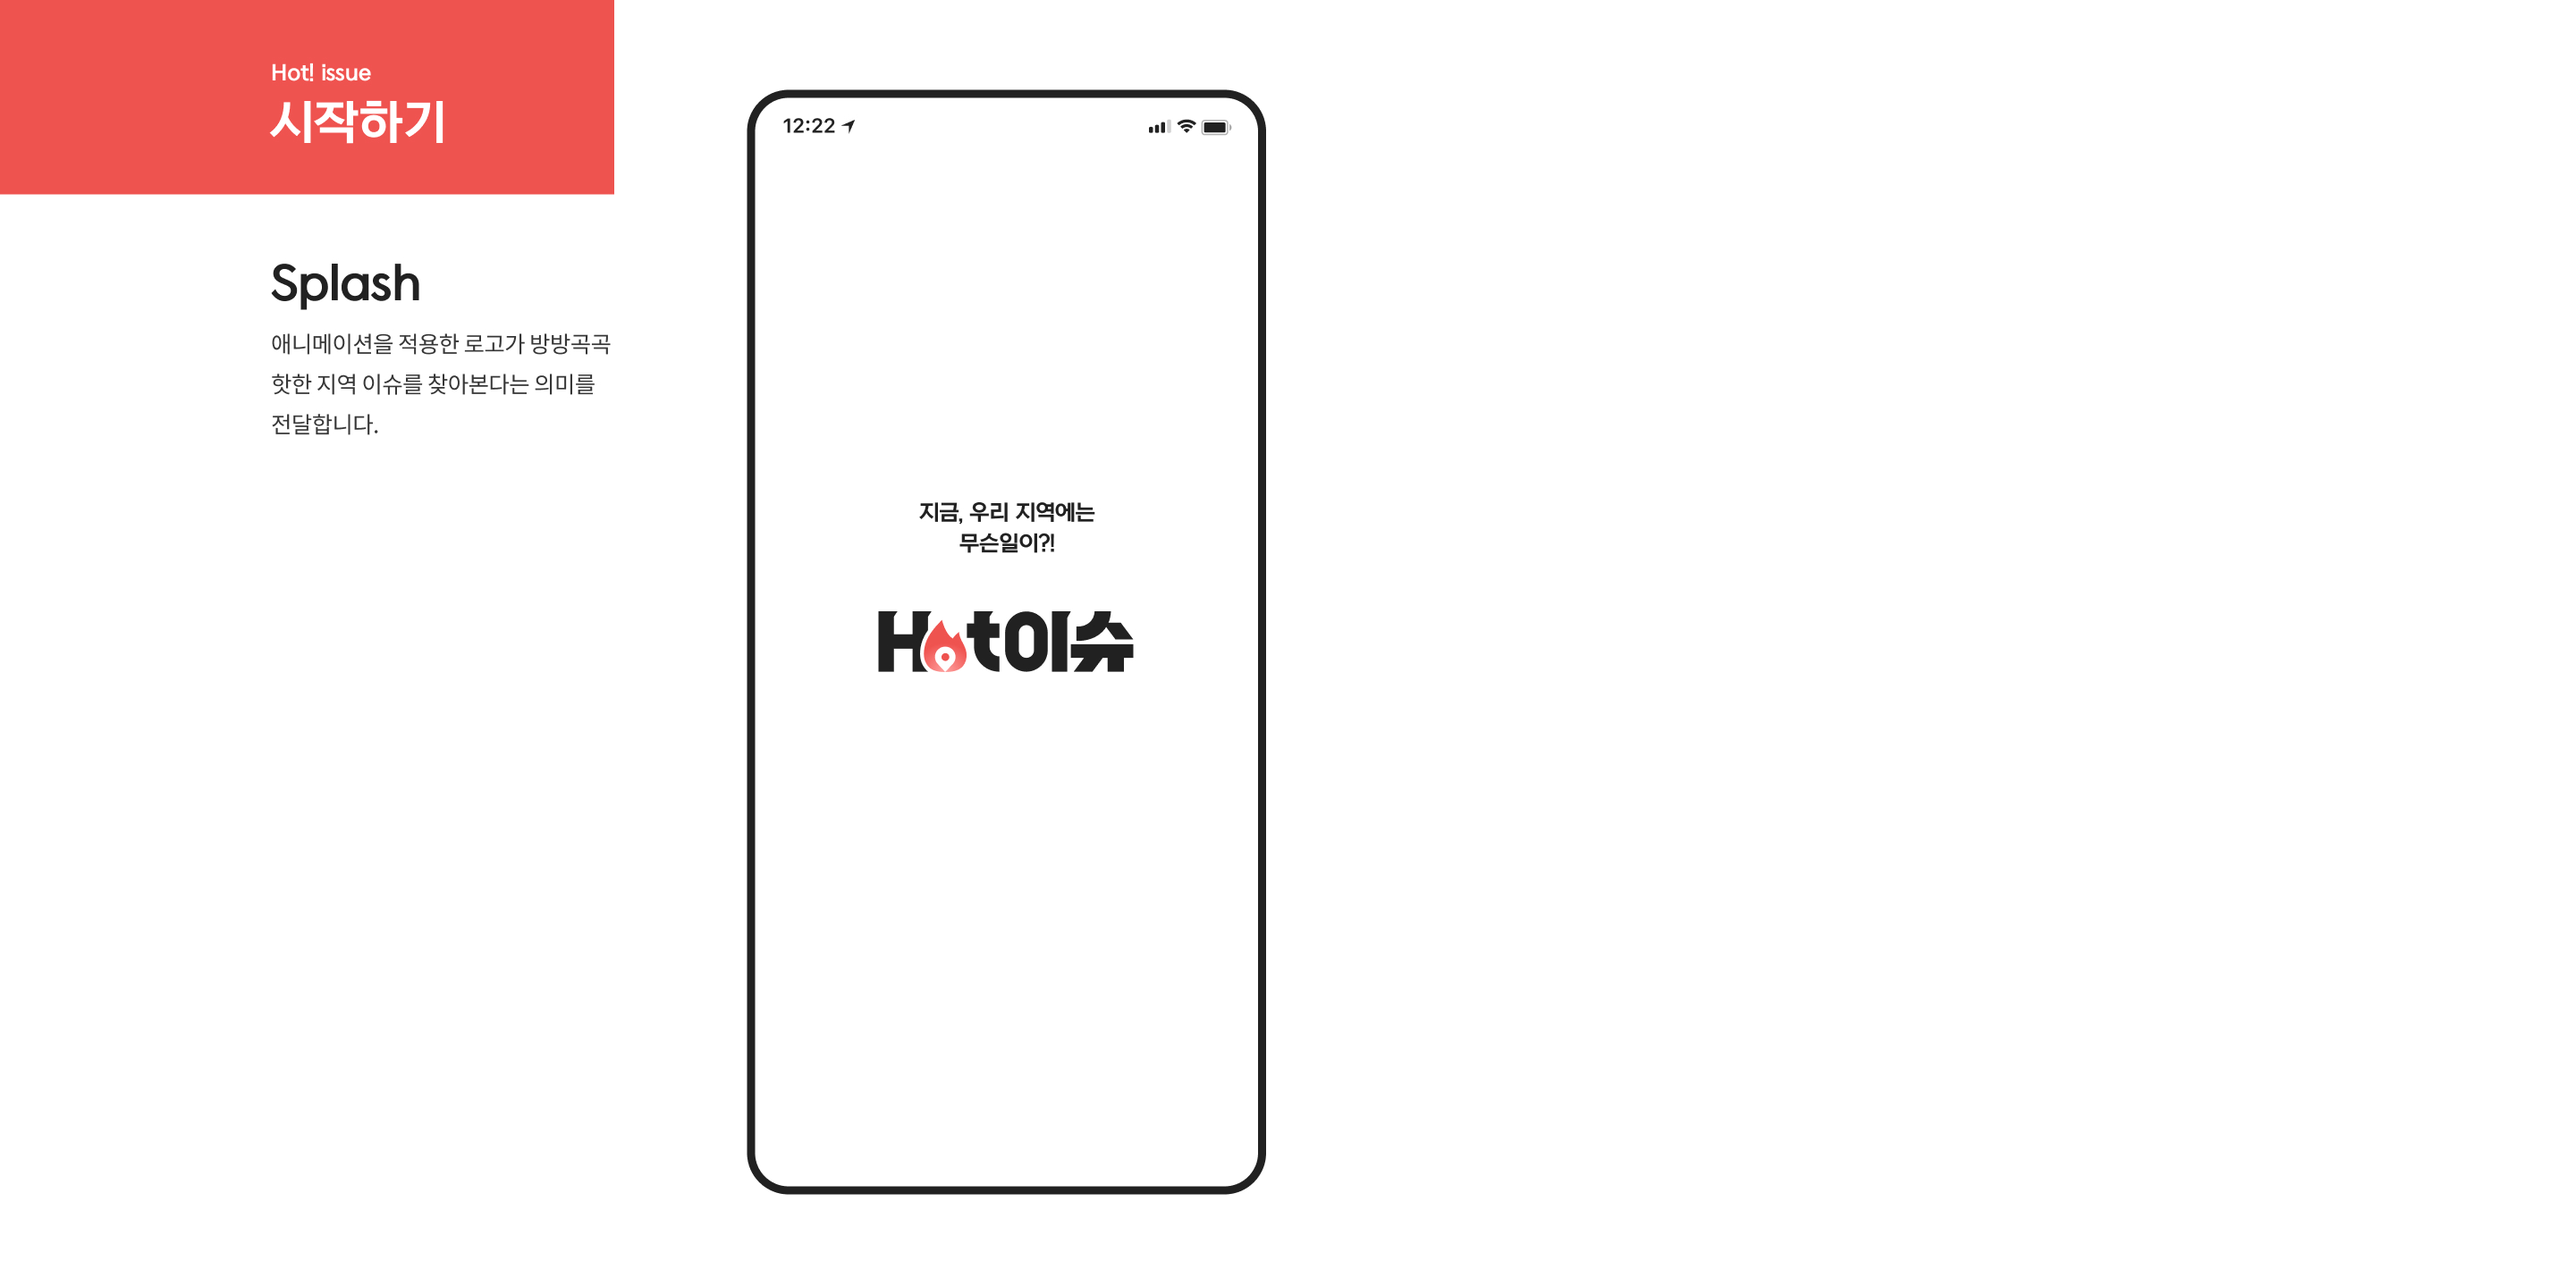
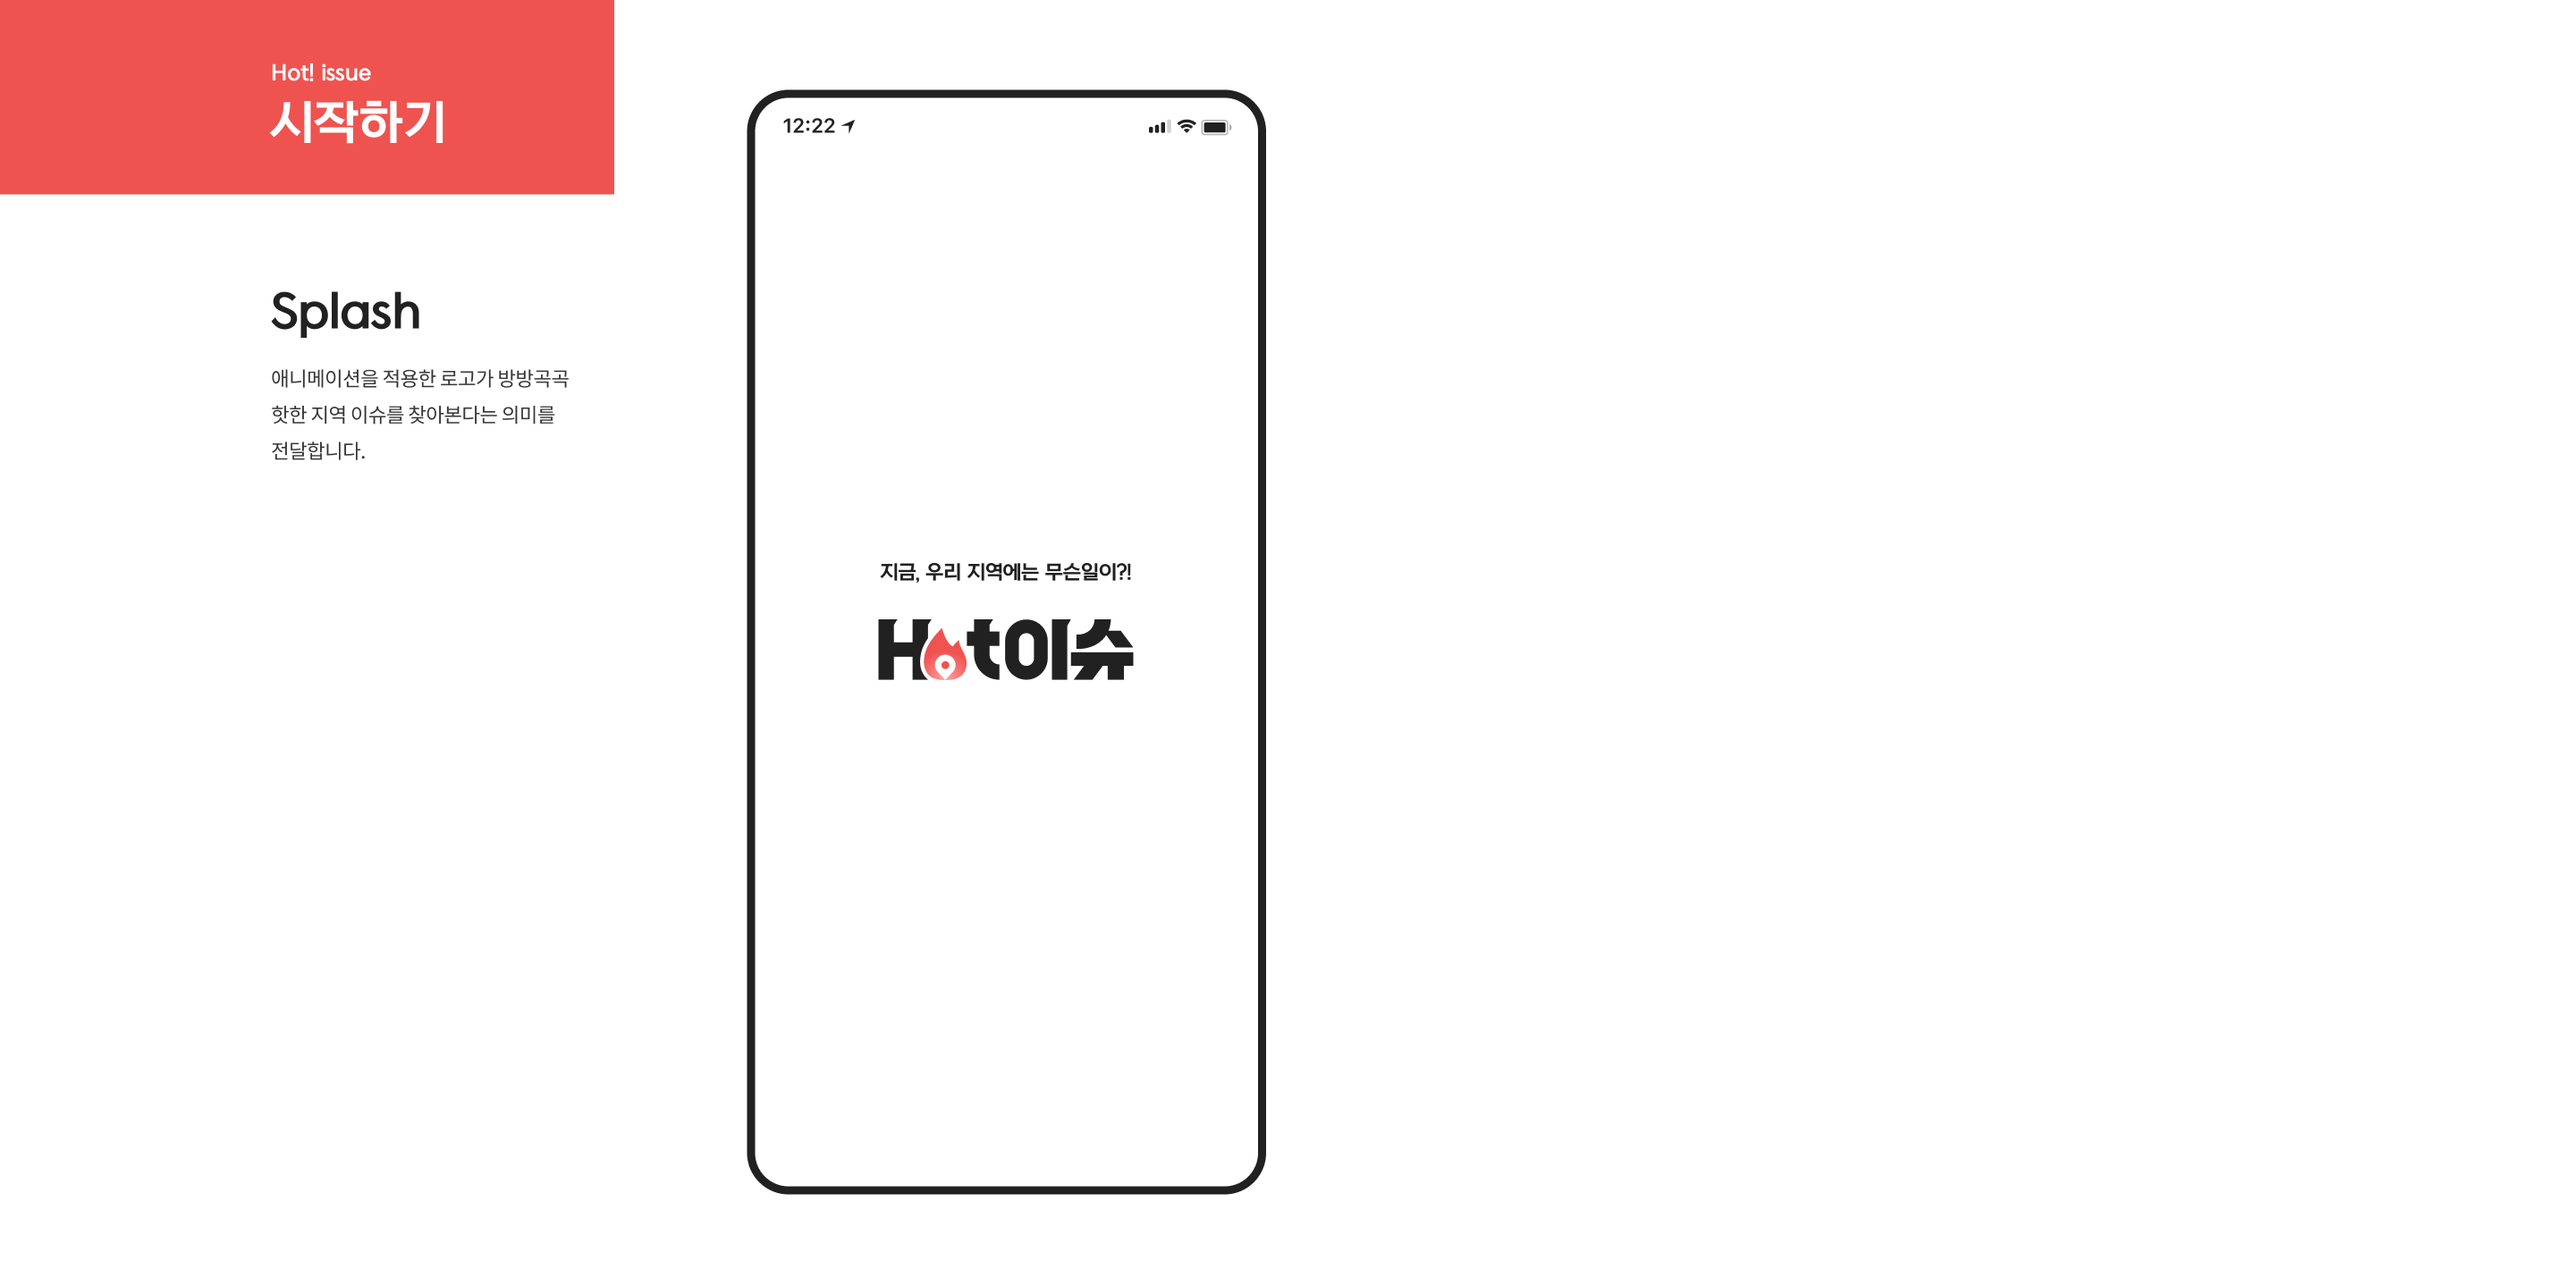
230428_hotissue

Changed region(s): [[0.0937, 0.214, 0.2499, 0.3669], [0.3436, 0.3669, 0.4373, 0.5504]]

diff --git a/style.css b/style.css
@@ -160,7 +160,7 @@ p {
 
 .title {
     padding-top: 200px;
-    max-width: 75%;
+    max-width: 73%;
     height: 85%;
     margin: 0 auto;
 }
@@ -277,7 +277,7 @@ p {
 
 .title2 {
     padding: 90px 0 50px 0;
-    max-width: 75%;
+    max-width: 73.5%;
     height: 85%;
     margin: 0 auto;
 }
